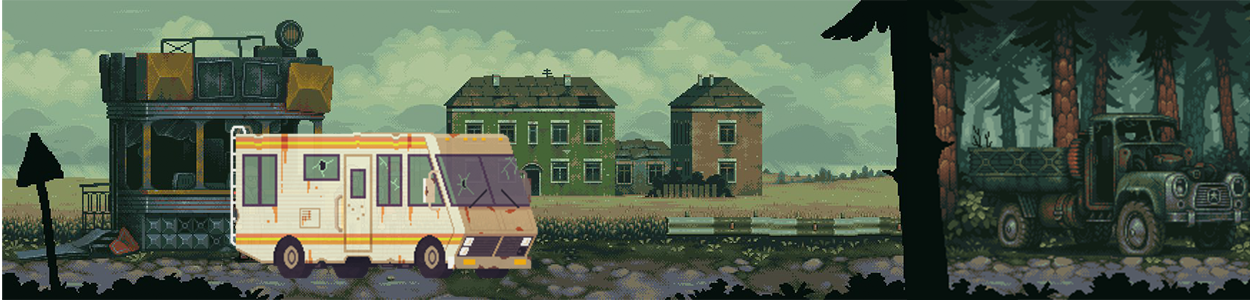
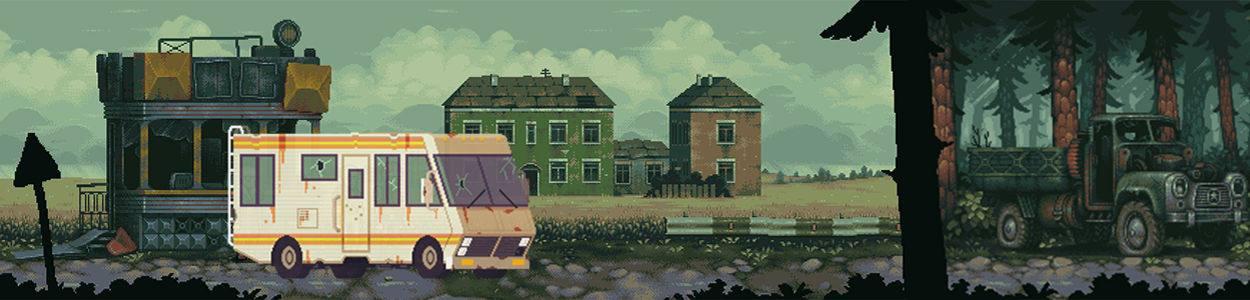
updatd img

diff --git a/src/index.js b/src/index.js
@@ -15,7 +15,7 @@ window.$ = $;
 // const gameWinSong = new Audio();
 let party = new Party();
 let inventory = new Inventory();
-const game = new Game();
+let game = new Game();
 
 //UI Logic
 function handleFormSubmission(event) {
@@ -56,23 +56,24 @@ function handleFormSubmission(event) {
       let listNames = document.createElement("li");
       listNames.textContent = memberName.name;
       list.appendChild(listNames);
+      $('#instructions').hide();
     });
   });
 
 
   // Inventory UI
-  let listSupply = document.getElementById("inventory");
-  const bullets = document.createElement("li");
-  const food = document.createElement("li");
-  const medKit = document.createElement("li");
+  // let listSupply = document.getElementById("inventory");
+  // const bullets = document.createElement("li");
+  // const food = document.createElement("li");
+  // const medKit = document.createElement("li");
 
-  bullets.textContent = `Bullet: ${inventory.bullet}`;
-  food.textContent = `Food: ${inventory.food}`;
-  medKit.textContent = `Med Kit: ${inventory.medkit}`;
+  // bullets.textContent = `Bullet: ${inventory.bullet}`;
+  // food.textContent = `Food: ${inventory.food}`;
+  // medKit.textContent = `Med Kit: ${inventory.medkit}`;
 
-  listSupply.appendChild(bullets);
-  listSupply.appendChild(food);
-  listSupply.appendChild(medKit);
+  // listSupply.appendChild(bullets);
+  // listSupply.appendChild(food);
+  // listSupply.appendChild(medKit);
 
   $("#homeScreen").hide();
   $("#gameScreen").show();
@@ -90,10 +91,11 @@ function updateStats() {
     memberNames += "<li>" + member.name + " | Health: " + member.health + " | Stamina:" + member.stamina + "</li>";
   });
   $("#zombieMembers").html(memberNames);
+
   let inventoryItems = "";
-  inventory.forEach(function(item) {
-    console.log(item);
-    inventoryItems += "<li>" + item.bullet + "</li>";
+  Object.keys(inventory).forEach(function(key){
+    const str2 = key.charAt(0).toUpperCase() + key.slice(1);
+    inventoryItems += "<li>" + str2 +" : " + inventory[key] + "</li>";
   });
   $("#inventory").html(inventoryItems);
 }
@@ -104,18 +106,25 @@ window.addEventListener("load", function () {
   document.querySelector("form#createParty").addEventListener("submit", handleFormSubmission);
 });
 
+//Listener for travel
 $(".travel").click(function () {
   $("#randomEventMessage").empty();
-
+  $(".imgHeader").css("background-image", game.imgArray[game.imgArrayIndex]);
   for (let i = 0; i < party.members.length; i++) {
     party.members[i].staminaLost();
   }
   game.totalDays++;
+  if(game.imgArrayIndex < 2) {
+    game.imgArrayIndex++;
+  } else {
+    game.imgArrayIndex = 0;
+  }
   const rollFates = rollNumber(1,101);
   travel(rollFates, party, inventory);
   updateStats();
 });
 
+// listener for resting
 $(".rest").click(function () {
   //game.totalDays++;
   for (let i = 0; i < party.members.length; i++) {
@@ -127,6 +136,7 @@ $(".rest").click(function () {
   updateStats();
 });
 
+//listener for heal
 $(".heal").click(function () {
   //game.totalDays++;
   for (let i = 0; i < party.members.length; i++) {
@@ -138,7 +148,31 @@ $(".heal").click(function () {
   updateStats();
 });
 
+//listener for restocking
 $(".restock").click(function () {
   inventory.restock();
   game.totalDays++;
+  updateStats();
 });
+
+
+// function checkDeath() {
+//   let deathString = "";
+//   for(let i = 0; i < party.members.length; i++) {
+//     if(party.members[i].deathCheck(i)) {
+//       deathString += party.members[i].name + " has died. ";
+//       party.members.splice(i, 1);
+//       if (party.members.length <= 0) {
+//         $("#event").html("Everyone in your party has died. The game is over.");
+//         $(".imgHeader").css("background-image", "url(../assets/images/GameOver.png");
+//         return;
+//       }
+//       i--;
+//     }
+//   }
+ 
+//   if (deathString) {
+//     deathString += "Bummer.";
+//     $("#event").html(deathString);
+//   }
+// }

diff --git a/src/js/events.js b/src/js/events.js
@@ -6,7 +6,6 @@ window.$ = $;
 // Function that rolls events
 export default function fates(roll, party, inventory) {
   const charIndex = rollNumber(0, party.members.length-1); // grabs a person to potentially inflict status/damage
-  console.log(inventory);
   if (roll <= 10) {
     let staminaVar = rollNumber(5, 20);
     $("#randomEventMessage").text(party.members[charIndex].name +` was up all night and now has lost ${staminaVar} stamina`
@@ -37,12 +36,11 @@ export default function fates(roll, party, inventory) {
     //needs to update health and stamina
   } else if (roll <= 35) {
     const healthVar = rollNumber(25, 40);
-    $("#randomEventMessage").text(`The party gets caught in a firefight with other survivors, ${party.party[charIndex].name} gets nicked by a bullet and loses ${healthVar}.`);
+    $("#randomEventMessage").text(`The party gets caught in a firefight with other survivors, ${party.members[charIndex].name} gets nicked by a bullet and loses ${healthVar}.`);
     party.members[charIndex].health -= healthVar;
   } else {
     $("#randomEventMessage").text("Your party traveled another day");
     const rollNormalEvent = rollNumber(1, 6);
-    console.log(rollNormalEvent);
     if ((rollNormalEvent === 1)) {
       $("#randomEventMessage").text(
         "Your party successfully traveled a day and are one step closer to the safe haven"

diff --git a/src/js/game.js b/src/js/game.js
@@ -1,7 +1,8 @@
+
 export default function Game() {
   this.totalDays = 0;
   this.daysLeft = 100;
-  this.imgArray =  ["url(img/travel3.png)", "url(img/travel2.png)", "url(img/travel1.png)"];
+  this.imgArray =  ["url(../assets/images/travel3.png)", "url(../assets/images/travel2.png)", "url(../assets/images/travel1.png)",];
   this.imgArrayIndex = 0;
 
   this.addDay = function() {
@@ -10,14 +11,3 @@ export default function Game() {
 }
 
 
-/*
- * make a js file for events.js
- *  within events.js it will include pop up fights and random people encounters
- *  fights will make the character lose heath. Running will cause +3 day counter
- *  random people encounter will give the option to add a member to the team. 
- *      More NPC = better fighting multiplier. Faster food drain.
- * 
- * make a js file for inventory.js
- *  within inventory.js it will include bullets(fight multiplier), food(stamina gain multiplier), 
- *  and med-kits(health gain multiplier)
- */

diff --git a/src/index.html b/src/index.html
@@ -11,6 +11,9 @@
       <div class="randomEvent">
         <span id="checkPoint"></span>
         <span id="randomEventMessage"></span>
+        <div id ="instructions"><h2>The goal is to reach the SafeHaven with all of your members still alive!!!</h2><br>
+        <h2>Fight, Scavenge, and Heal your way to the SafeHaven before you are turned into Zombies</h2>
+        </div>
       </div>
       <div class="row">
         <div class="col-md-4">
@@ -26,7 +29,6 @@
           </div>
         </div>
         <div class="col-md-8" id="homeScreen">
-
           <h1 id="start">To start game, create your zombie squad:</h1>
           <form id="createParty">
             <div class="form-group">
@@ -65,7 +67,7 @@
             </a>
           </div>
           <div class="events">
-            <p id="event"></p>
+            <p id="events"></p>
           </div>
         </div>
       </div>

diff --git a/webpack.config.js b/webpack.config.js
@@ -2,7 +2,7 @@ const path = require('path');
 const HtmlWebpackPlugin = require('html-webpack-plugin');
 const { CleanWebpackPlugin } = require('clean-webpack-plugin');
 const ESLintPlugin = require('eslint-webpack-plugin');
-const webpack = require('webpack')
+const webpack = require('webpack');
 
 
 module.exports = {
@@ -50,7 +50,7 @@ module.exports = {
             loader: 'file-loader',
             options: {
               name: '[name].[ext]',
-              outputPath: 'assets/images/'
+              outputPath: 'src/assets/images/'
             }
           }
         ]

diff --git a/src/js/character.js b/src/js/character.js
@@ -34,8 +34,8 @@ Character.prototype.staminaLost = function() { //stamina lost while travelling
   }
 };
 
-Character.prototype.deathCheck = function(/*character*/) {
-  if(this.health<=0) {
+Character.prototype.deathCheck = function(character) {
+  if(character.health<=0) {
     return true;
   }
 };

diff --git a/README.md b/README.md
@@ -1,15 +1,15 @@
-# (Application Name)
+# The Zombie Trials
 
 #### (Brief Description of Application)
 
-#### By (Your Name Here)
+#### By Brishna Bakshev, Justin Lee, Hyung Jim Kim, John Lenz
 
 ## Technologies Used
 
-* _List all_
-* _the major technologies_
-* _you used in your project_
-* _here_
+* _Jquery_
+* _Html_
+* _CSS_
+* _JavaScript_
 
 ## Description
 
